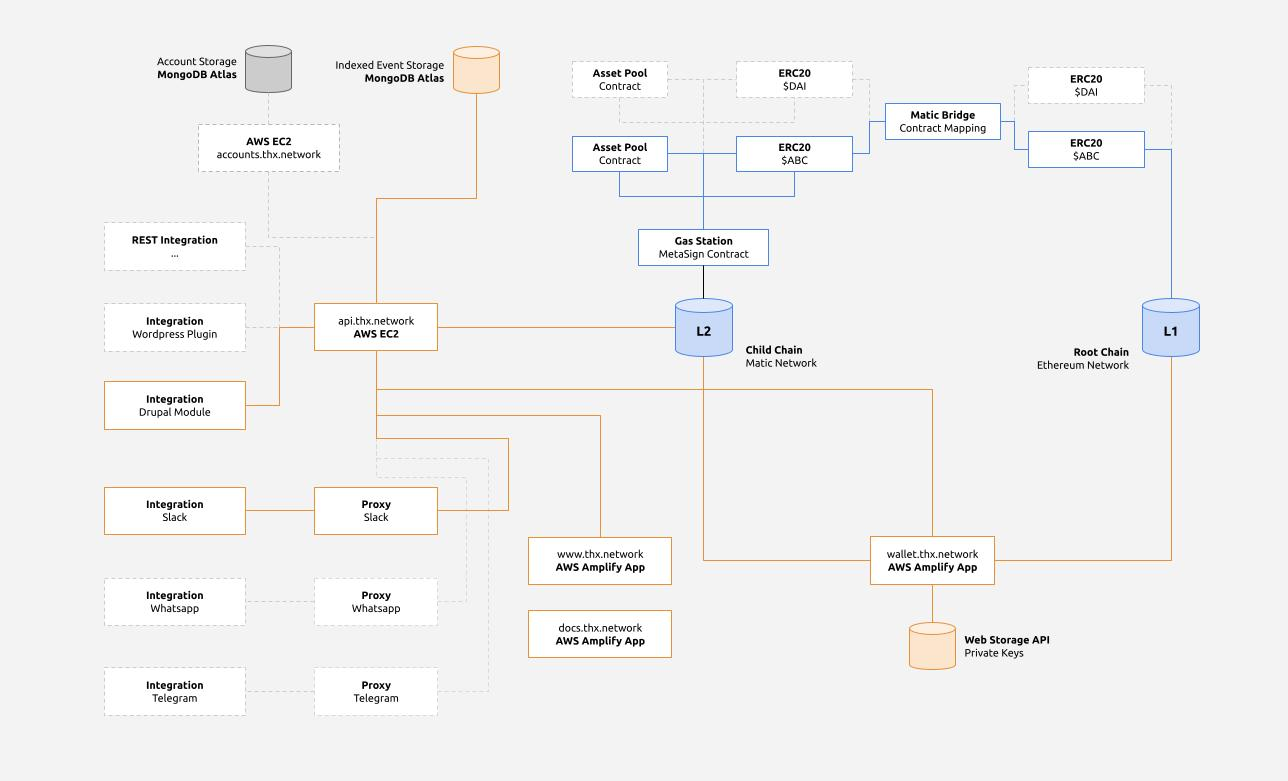
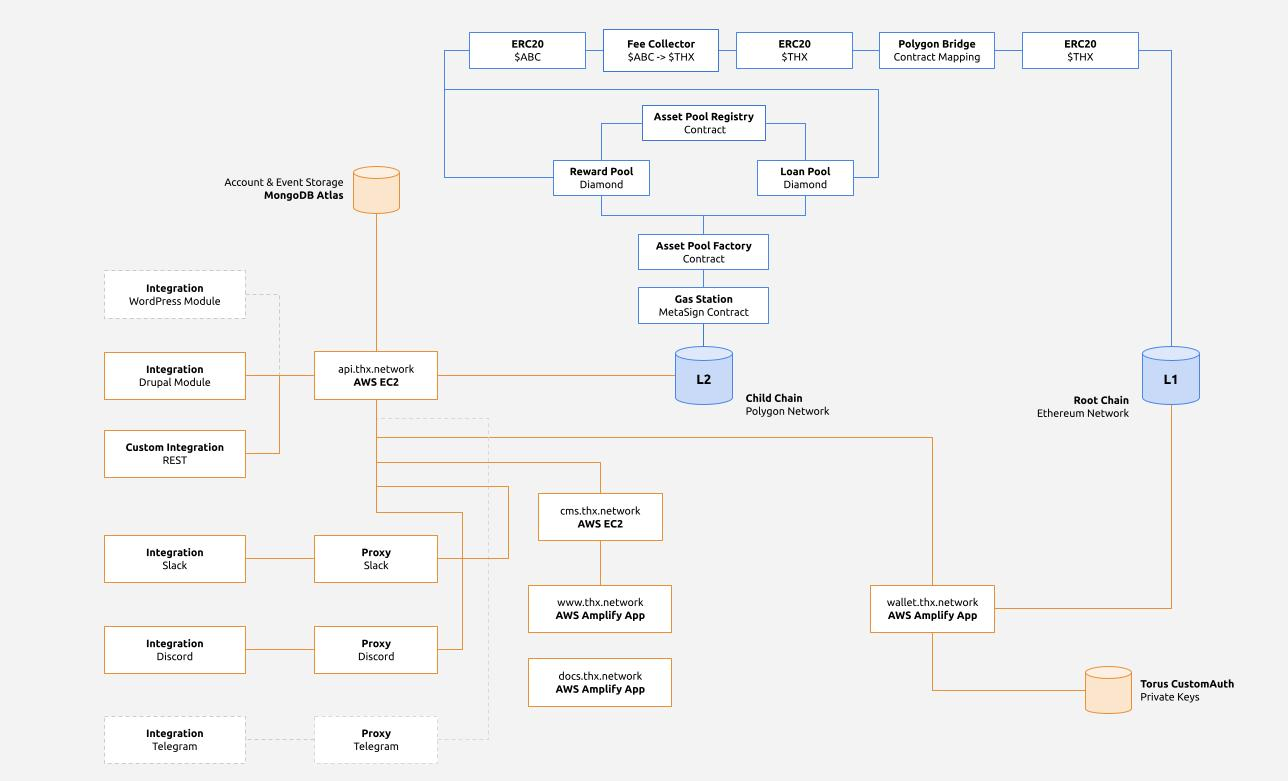
Provide security section, add account specs and improve intro and auth section

diff --git a/sidebars.js b/sidebars.js
@@ -8,12 +8,19 @@ module.exports = {
       type: 'category',
       label: 'API Specification',
       collapsed: false,
-      items: ['2.1.swagger-docs', '2.2.asset_pools','2.3.rewards','2.4.members','2.5.withdrawals'],
+      i
+      tems: ['2.1.swagger-docs', '2.2.accounts', '2.3.asset_pools', '2.4.members', '2.5.rewards', '2.6.withdrawals'],
     },{
       type: 'category',
       label: 'Network Details',
       collapsed: false,
-      items: ['3.1.networks', '3.2.api-health'],
+      items: ['3.1.networks', '3.2.api-health', '3.3.protocol-fee'],
+    },
+    {
+      type: 'category',
+      label: 'Protocol Security',
+      collapsed: false,
+      items: ['4.1.security-audit', '4.2.torus-customauth']
     }
   ]
 };

diff --git a/docusaurus.config.js b/docusaurus.config.js
@@ -24,6 +24,11 @@ module.exports = {
       },
       items: [
         {
+          href: 'https://thx.page.link/slack',
+          label: 'Support',
+          position: 'right'
+        },
+        {
           href: 'https://github.com/thxprotocol/',
           label: 'GitHub',
           position: 'right',

diff --git a/docs/2.2.accounts.md b/docs/2.2.accounts.md
@@ -1,0 +1,64 @@
+---
+id: 2.2.accounts
+title: Accounts
+sidebar_label: Accounts
+slug: /accounts
+---
+
+## 1. Account Signup
+
+THX API provides a secury way to create a wallet for your users. It will generate a new private key and encrypt it with the `password` you provide in the request. The hash of this encrypted key will be stored in our Cloud databases and removed when the user has claimed ownership of the account and transferred the membership to a new address. The request will provide the account wallet address. You should store this and use it to transfer rewards to.
+
+:::info
+The AssetPool header is optional but if you provide it the new account is given the member role upon creation.
+:::
+
+**Request:**
+```javascript
+axios({
+    url: 'https://api.thx.network/v1/signup',
+    method: 'POST',
+    headers: {
+        AssetPool: '0x278Ff6d33826D906070eE938CDc9788003749e93'
+    },
+    data: {
+        email: "peter@thx.network",
+        password: "123456",
+        confirmPassword: "123456"
+    }
+})
+```
+
+**Response:**
+```json
+{
+    "address": "0x278Ff6d33826D906070eE938CDc9788003749e93",
+}
+```
+
+## 2. Account Activation
+
+Accounts created for your users should be activated at some point to make sure that ownership of the private key is securely transferred to the end-user. You can do so by sending them a login link for THX Wallet. The link in the e-mail will redirect them to THX Wallet where they are forced to choose a password an reencrypt their temporary private key. 
+
+[![img](../static/img/set_password.png)](../static/img/set_password.png)
+
+When authenticated with THX Wallet a new private key will be provided to the account by our decentralized key distribution service. At this point both keys are known to the client and the assets pools member id will be updated with the new address. 
+
+**Request:**
+```javascript
+axios({
+    url: 'https://api.thx.network/v1/authentication_token',
+    method: 'POST',
+    data: {
+        email: "peter@thx.network",
+        password: "123456",
+    }
+})
+```
+
+**Response:**
+```json
+{
+   "url": "https://wallet.thx.network/login?authentication_token=QA5O/8XvCFJFkhE089CHcEQ3mWwQ24ZR0FL+69QEbvOFkftJUoyc/meeLl4RjtbR9FZ73GjeA9Jo1UKG5z0YOCtSsTaC0g3pi+NI0Q==&secure_key=/4eoalOgC1dfh2jGe9PrXjPHLvLH2sotxSdJSxp77mF+dA3BpX2ueb0A6X7ZBMTZE1JN"
+}
+```

diff --git a/docs/4.1.security-audit.md b/docs/4.1.security-audit.md
@@ -1,0 +1,16 @@
+---
+id: 4.1.security-audit
+title: Security Audit
+sidebar_label: Security Audit
+slug: /security-audit
+---
+
+[![img](../static/img/pessimistic.png)](https://pessimistic.io/)
+
+In June 2021 the team of security audit firm [Pessimistic.io](https://pessimistic.io/) conducted an extensive on the state of our [smart contracts](https://github.com/thxprotocol/modules-solidity) as of commit [b5587b48112e3b319212aef06264c1d38fbe1cad](https://github.com/thxprotocol/modules-solidity/commit/b5587b48112e3b319212aef06264c1d38fbe1cad). 
+
+The initial report showed **no critical or medium severity issues**. 
+
+Most of the reported issues of lower importance have been fixed as recommended in the intial report as of commit [5f0cc44c7627ce1ae4f339543a04b9080345d5b0](https://github.com/thxprotocol/modules-solidity/commit/5f0cc44c7627ce1ae4f339543a04b9080345d5b0). 
+
+The final and public report has been delivered on July 19th and is published in the [Pessimistic.io audit repository](https://github.com/pessimistic-io/audits/blob/main/THX%20Security%20Analysis%20by%20Pessimistic.pdf).

diff --git a/docs/1.1.introduction.md b/docs/1.1.introduction.md
@@ -11,6 +11,16 @@ THX API, Dashboard and Web Wallet allow you to **embed fintech features in any a
 No blockchain or smart contract knowledge is required when integrating with THX API.
 :::
 
-If you didn't do so already, [signup for a THX account](https://www.thx.network/signup) to get API access. Make sure to link an ERC20 token and create your asset pool in [THX Dashboard](https://dashboard.thx.network). [Contact our team on Slack](https://thx.page.link/slack) if you have any questions or need help in the process.
+## 1. Signup
+[Signup for a THX account](https://www.thx.network/signup) to get API access. 
+
+[![img](../static/img/signup.png)](../static/img/signup.png)
+
+## 2. Create Asset Pool
+Make sure to connect an ERC20 token and create your asset pool in [THX Dashboard](https://dashboard.thx.network). 
 
 [![img](../static/img/quickswap_tokens.png)](../static/img/quickswap_tokens.png)
+
+:::info
+[Contact our team on Slack](https://thx.page.link/slack) if you have any questions or need help in the process.
+:::

diff --git a/docs/3.3.protocol-fee.md b/docs/3.3.protocol-fee.md
@@ -1,0 +1,17 @@
+---
+id: 3.3.protocol-fee
+title: Protocol Fee
+sidebar_label: Protocol Fee
+slug: /protocol-fee
+---
+
+A protocol fee is charged when making a deposit to your asset pool. Currently the fee percentage parameter set in the assetpool registry is 0 and therefor no fees are substracted from the deposit amount.
+
+## Pool Registry
+The pool registry is used to store important protocol parameters. These parameters will become governable in the near future. Currently asset pools read the `feeCollector` and `feePercentage` parameters from this registry.
+
+## Fee Collector 
+Charged fees will be collector by the fee collector contract. Periodically this contract will swap the tokens it collected for THX tokens. These tokens can be claimed by registered THX users that hold THX tokens in their THX wallets oon Polygon L2.
+
+## Claim your fees
+You will be able to use THX Wallet to claim your periodic allocation and transfer the THX tokens from the fee collector contract to your THX wallet address.

diff --git a/docs/2.1.swagger-docs.md b/docs/2.1.swagger-docs.md
@@ -11,6 +11,12 @@ All available endpoints are described in our [Swagger docs](https://api.thx.netw
 Make sure to read through this carefully and please [notify our team](https://thx.page.link/slack) when you encounter any issues.
 :::
 
+## Accounts
+
+Accounts can be created with he [regular signup flow](https://www.thx.network/signup) or can be done on behalf of one of your users. 
+
+[API Specification](https://api.thx.network/v1/docs/#/Authentication) | [Examples](../accounts)
+
 ## Asset Pools
 
 Asset Pools are configured with an ERC20 token contract. Assets of this type can be stored in the pool. Only by claiming rewards these assets can be withdrawn from the pool. Asset Pools can be configured to bypass all polls or to enforce an extra layer of security by setting poll duration properties to a fair amount of seconds. 

diff --git a/docs/4.2.torus-customauth.md b/docs/4.2.torus-customauth.md
@@ -1,0 +1,12 @@
+---
+id: 4.2.torus-customauth
+title: Torus CustomAuth
+sidebar_label: Torus CustomAuth
+slug: /torus-customauth
+---
+
+CustomAuth is used to directly interact with the [Torus Key Infrastructure](https://docs.tor.us/key-infrastructure/technical-architecture) to assign, store and retrieve keys on the network. CustomAuth implements an interaction flow as highlighted below. 
+
+THX Wallet uses Torus CustomAuth to provide our users with private keys without having to store those private keys centralized in our cloud database or decentralized on the users device. With The Torus CustomAuth THX Wallet users only need remember tradtional e-mail password credentials for them to access their wallet.  
+
+[![img](../static/img/directauth-overview.png)](https://docs.tor.us/customauth/what-is-customauth)

diff --git a/docs/2.3.asset_pools.md b/docs/2.3.asset_pools.md
@@ -1,5 +1,5 @@
 ---
-id: 2.2.asset_pools
+id: 2.3.asset_pools
 title: Asset Pools
 sidebar_label: Asset Pools
 slug: /asset_pools

diff --git a/docs/2.6.withdrawals.md b/docs/2.6.withdrawals.md
@@ -1,5 +1,5 @@
 ---
-id: 2.5.withdrawals
+id: 2.6.withdrawals
 title: Withdrawals
 sidebar_label: Withdrawals
 slug: /withdrawals

diff --git a/docs/2.5.rewards.md b/docs/2.5.rewards.md
@@ -1,5 +1,5 @@
 ---
-id: 2.3.rewards
+id: 2.5.rewards
 title: Rewards
 sidebar_label: Rewards
 slug: /rewards
